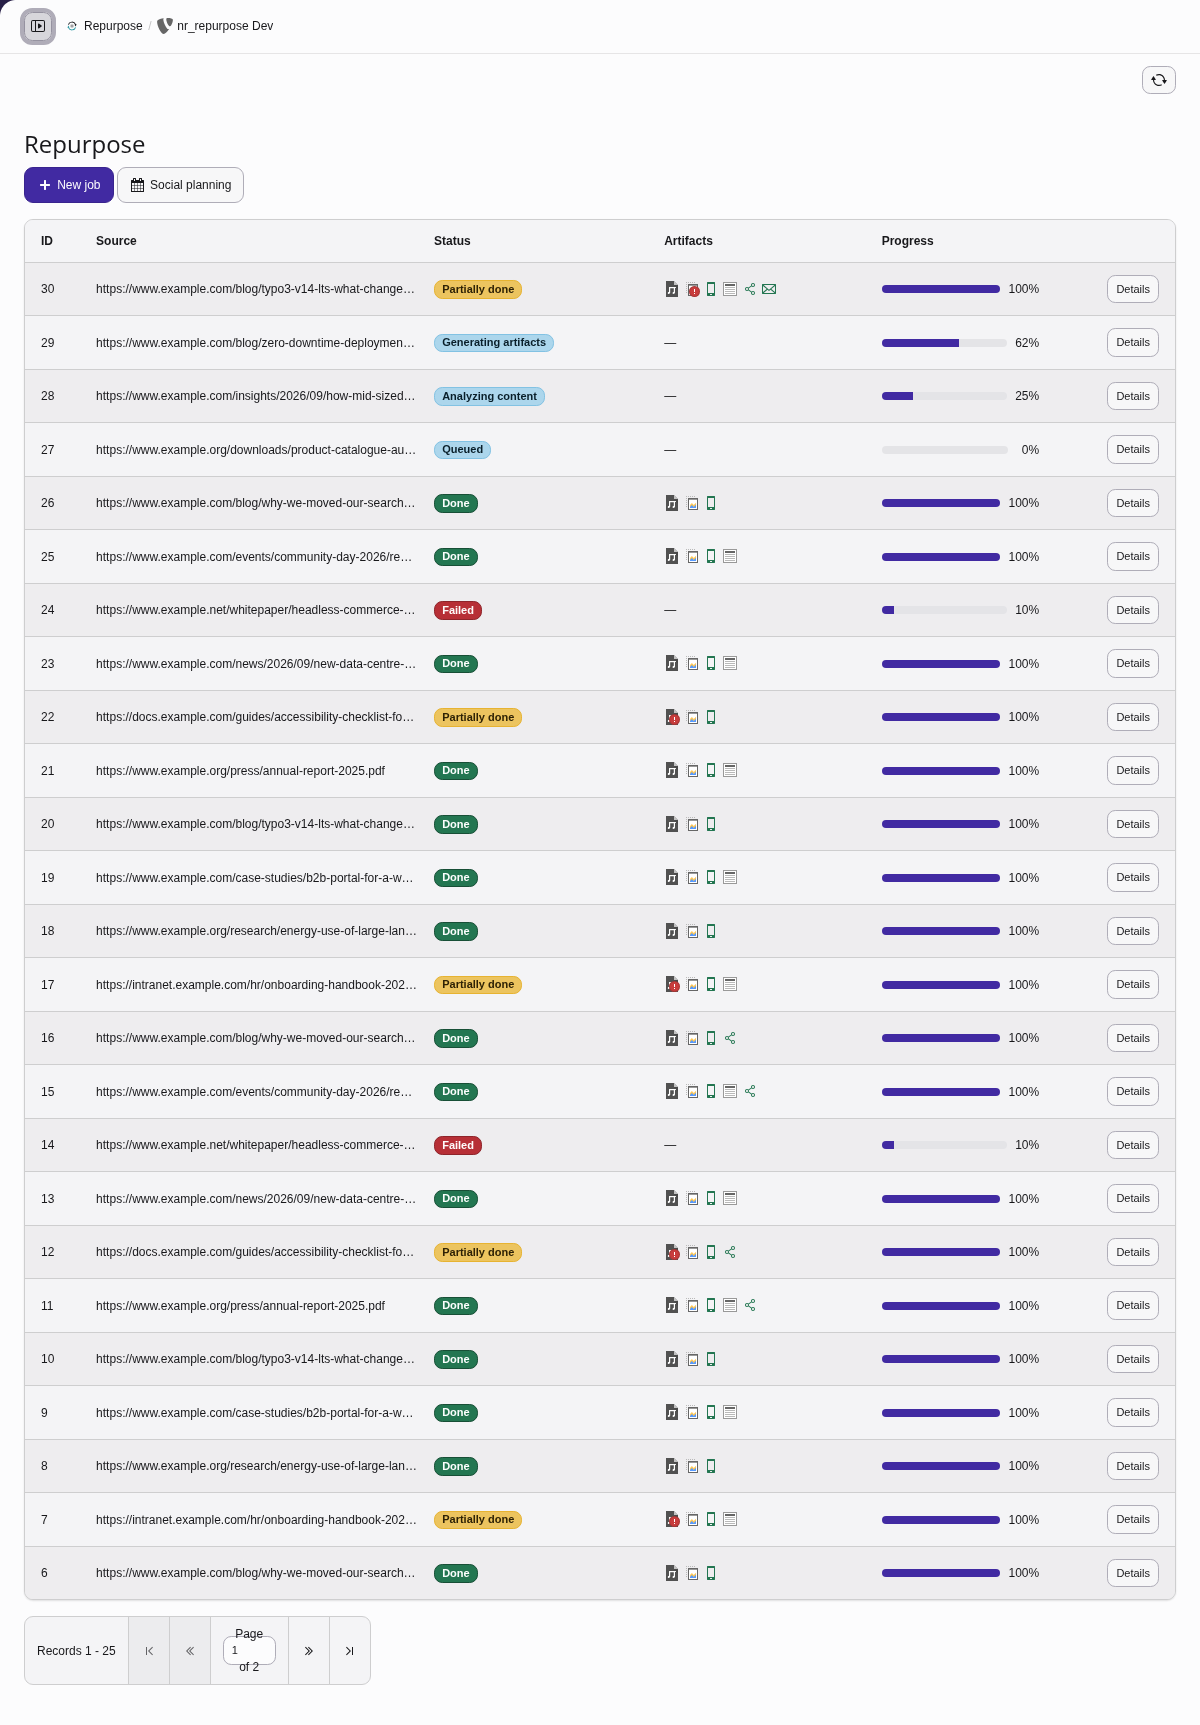
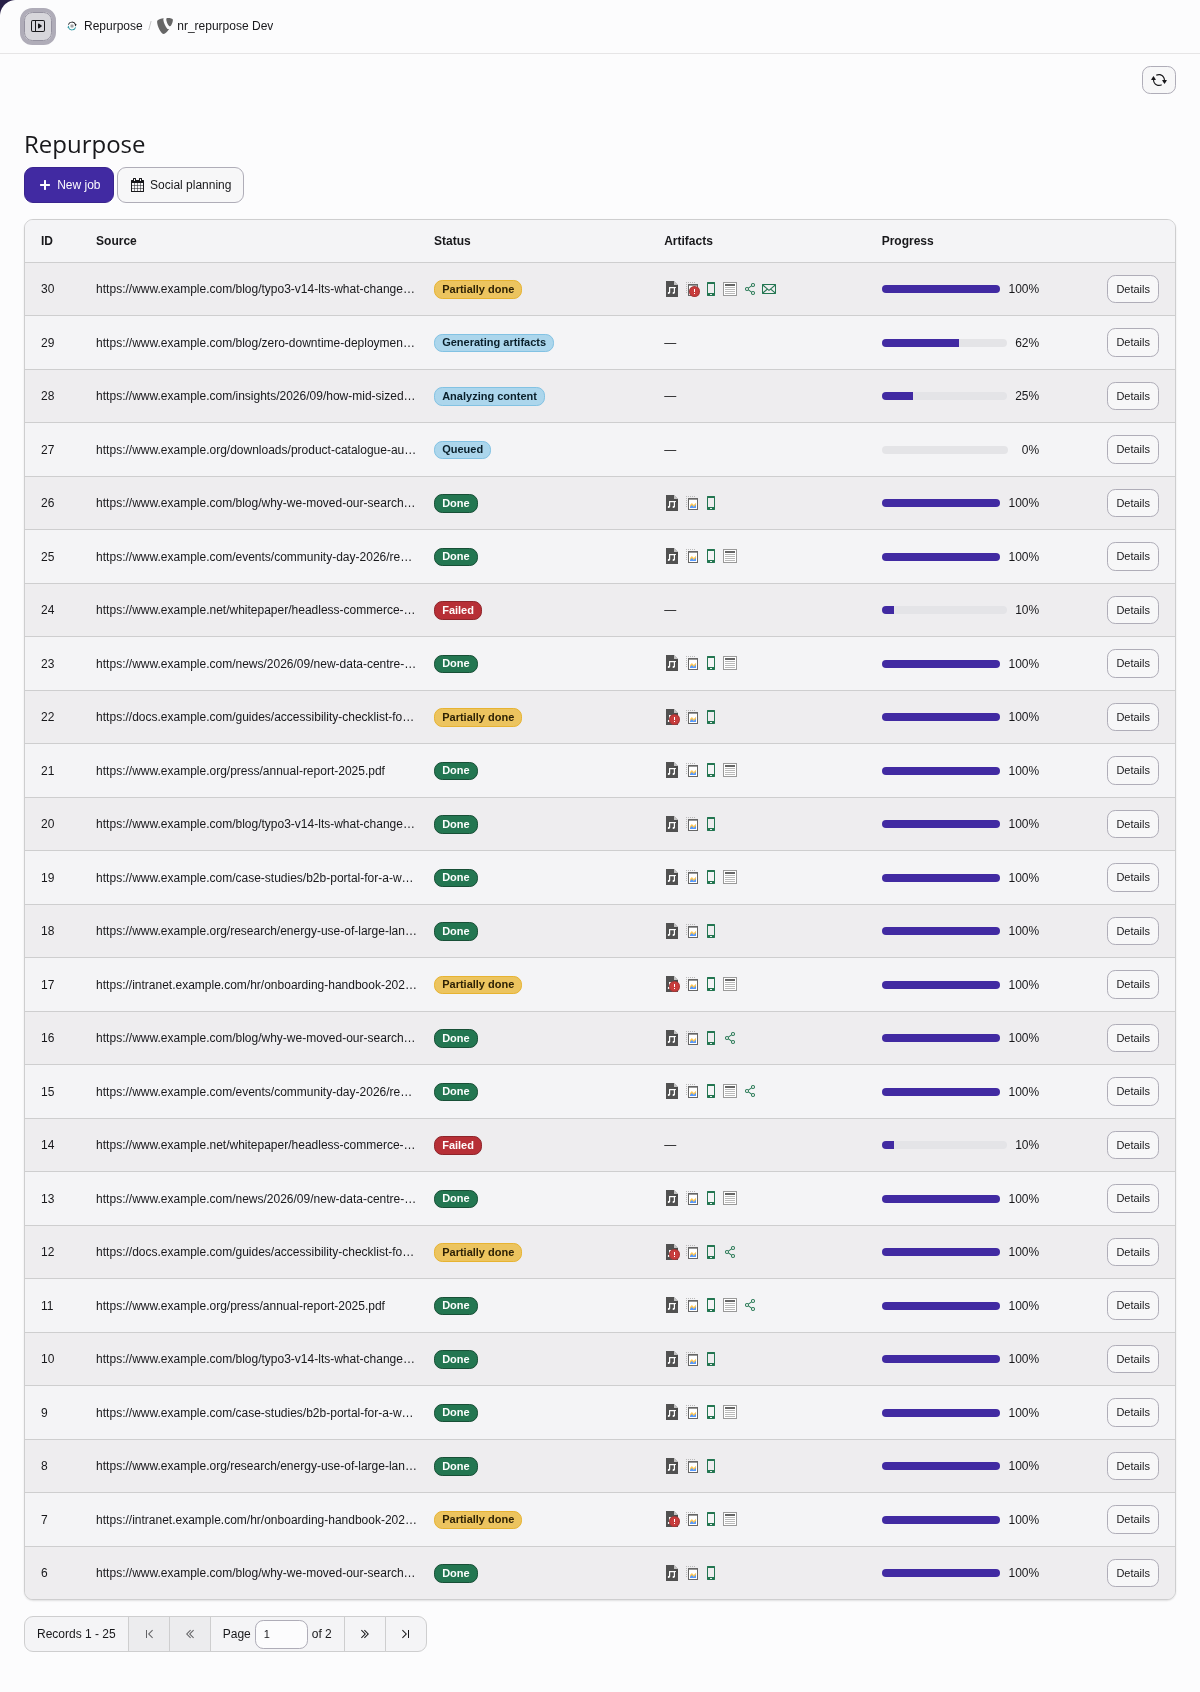
docs(usage): describe the job list pager
The usage chapter said the landing view "lists all jobs"; since the list
is paged it shows 25 jobs per page, newest first. Describe the pager as
the Job/Pagination partial renders it: the record range, first,
previous, next and last links, and a page-number field that opens the
entered page on Enter. A page number beyond the last page shows the
last page (the core paginator clamps it).

Both behaviours were checked on a DDEV instance with 30 jobs: currentPage
99 and typing 2 + Enter each showed "Records 26 - 30".

Recapture JobList.png on the new base, where the pager's page label
stays on one line. The other five screenshots do not show the list and
render pixel-identical on the new base (ImageMagick compare, AE 0).

Assisted-by: claude-code:claude-opus-5-5
Agent-Session: https://claude.ai/code/session_0196tEVsxg3sYSJ1TxgRmv7n
Agent-Host: 0493f0

diff --git a/Documentation/Usage/Index.rst b/Documentation/Usage/Index.rst
@@ -25,11 +25,16 @@ It has three views, backed by the :php:`JobController` actions ``list``,
 Job list
 --------
 
-The landing view lists all jobs regardless of their storage page. Each row shows
-the source, the selected artifacts, and the live status as the worker advances
-it: ``queued → ingesting → analyzing → generating → done`` (or
-``partially_done`` / ``failed``). From here you open the *New job* form or a
-job's result view.
+The landing view lists the jobs of all storage pages, newest first, 25 per
+page. Each row shows the source, the selected artifacts, and the live status as
+the worker advances it: ``queued → ingesting → analyzing → generating → done``
+(or ``partially_done`` / ``failed``). From here you open the *New job* form or
+a job's result view.
+
+With more than 25 jobs, a pager below the table shows the record range
+(*Records 1 - 25*), links to the first, previous, next and last page, and a
+page-number field: enter a number and press :kbd:`Enter` to open that page. A
+page number beyond the last page shows the last page.
 
 .. figure:: /Images/Usage/JobList.png
    :alt: Repurpose job list with the New job and Social planning buttons, jobs
@@ -38,8 +43,8 @@ job's result view.
    :zoom: lightbox
    :class: with-border with-shadow
 
-   The job list, newest job first, 25 jobs per page. A long source URL is cut
-   with an ellipsis; the full URL is in the tooltip.
+   The first of two pages of the job list. A long source URL is cut with an
+   ellipsis; the full URL is in the tooltip.
 
 .. _usage-new:
 
